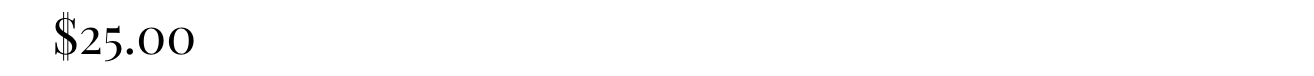
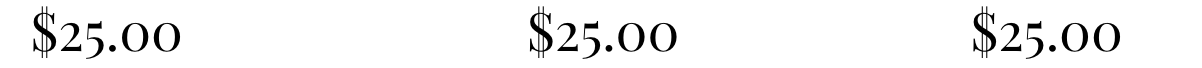
added pic

Changed region(s): [[0.8003, 0.0882, 0.9542, 0.8529], [0.4309, 0.0882, 0.5849, 0.8529], [0.0, 0.0882, 0.1539, 0.8529]]

diff --git a/shopAll.html b/shopAll.html
@@ -30,7 +30,9 @@
      <img id="p8" src="sunflower.jpeg" </img>
      <img id="p11" src="25.png" </img>
      <img id="p9" src="redYellow.jpeg" </img>
-     <img id="p12" src="35.png" </img>
+     <img id="money" src="money.jpeg" </img>
+     <img id="bb" src="bb.jpg" </img>
+     <img id="3525" src="3525.png" </img>
 
      
 

diff --git a/style.css b/style.css
@@ -86,6 +86,22 @@
   #p13{
    width: 1300px;
   }
+
+  #money{
+   width:310px;
+   border-radius: 2px;
+   margin: 50px;
+  }
+
+  #3525{
+   width: 1300px;
+  }
+
+  #bb{
+   width:310px;
+   border-radius: 2px;
+   margin: 50px;
+  }
 a{
    color:#e06377; font-size: 40px;
    margin: 35px;

diff --git a/bouquets.html b/bouquets.html
@@ -21,6 +21,8 @@
 
       
       <img id="p6" src="bouquet.jpeg" </img>
+      <img id="money" src="money.jpeg" </img>
+      <img id="bb" src="bb.jpg" </img>
       <img id="p13" src="25l.png" </img>
 
 

diff --git a/index.html b/index.html
@@ -38,6 +38,7 @@
          <a href="shopAll.html"> SHOP ALL</a>
       </nav>
    </center>
+
       
 
 
